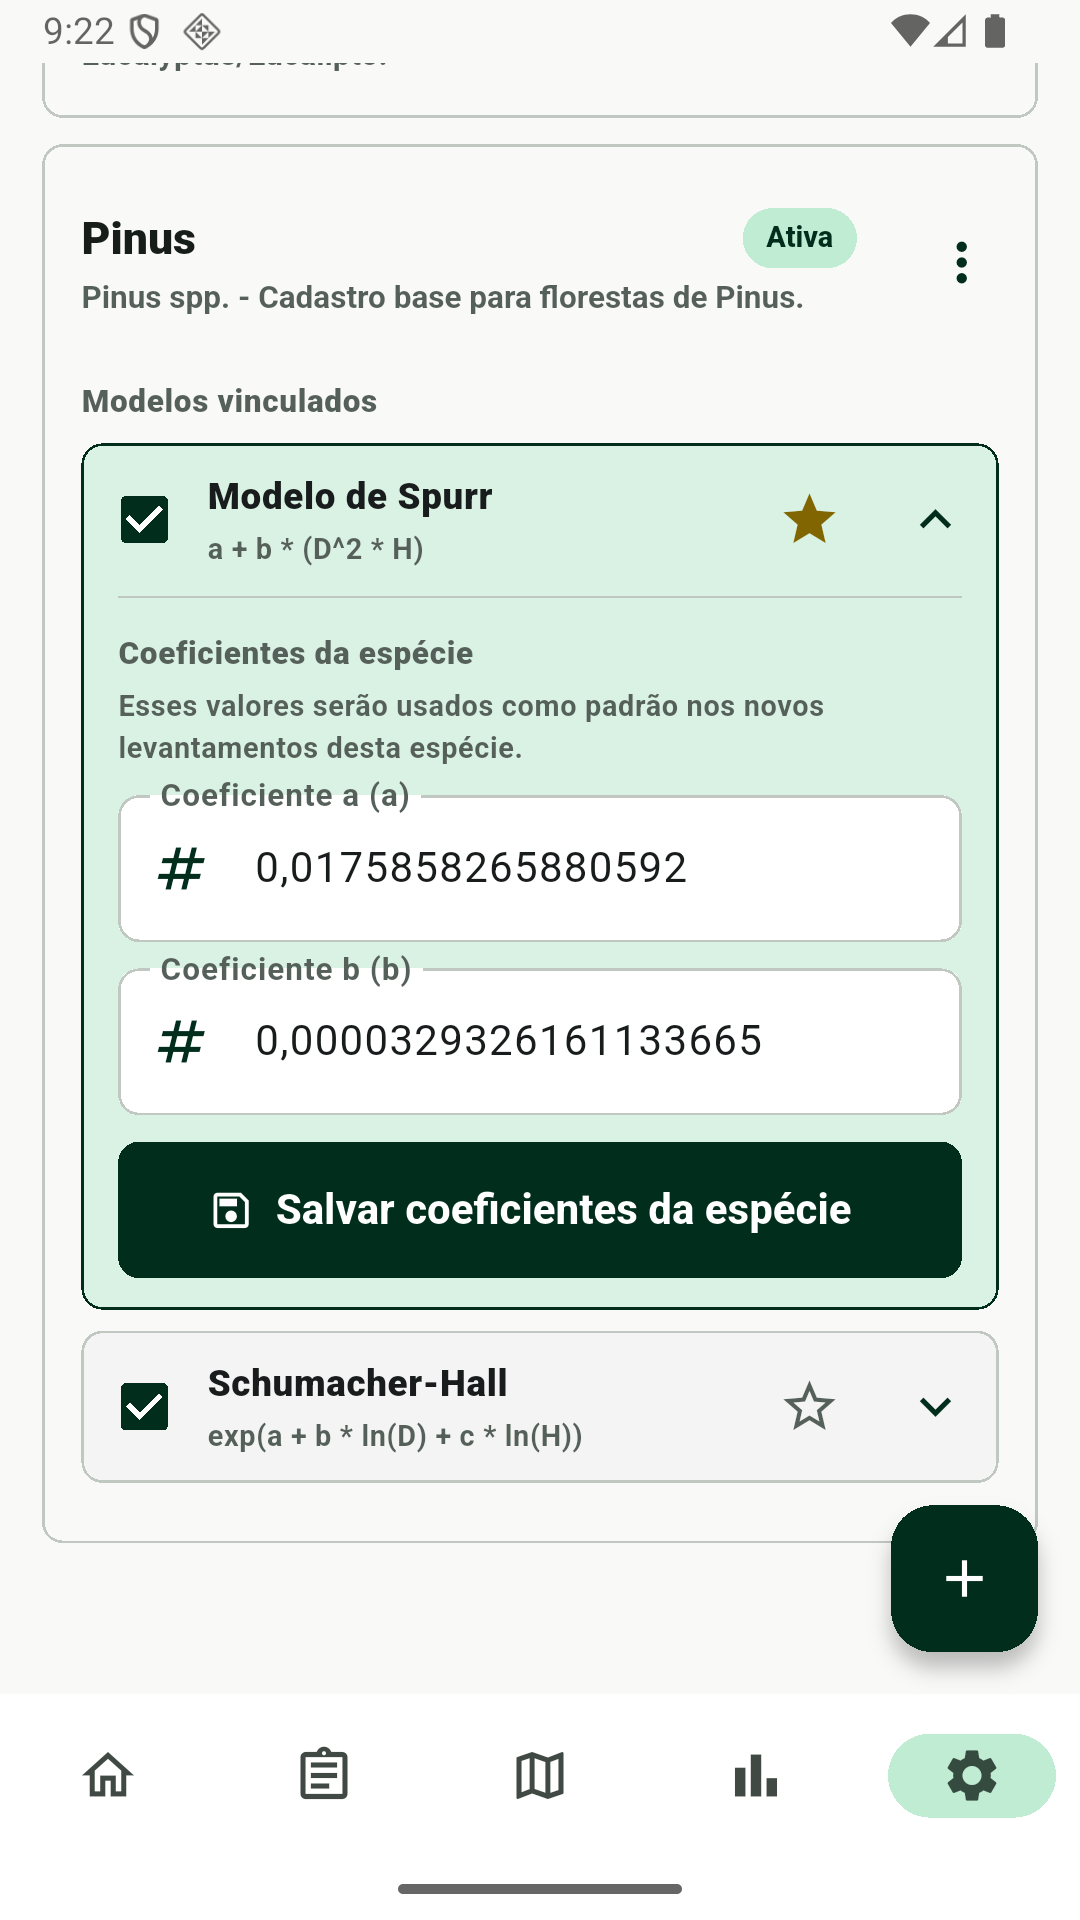
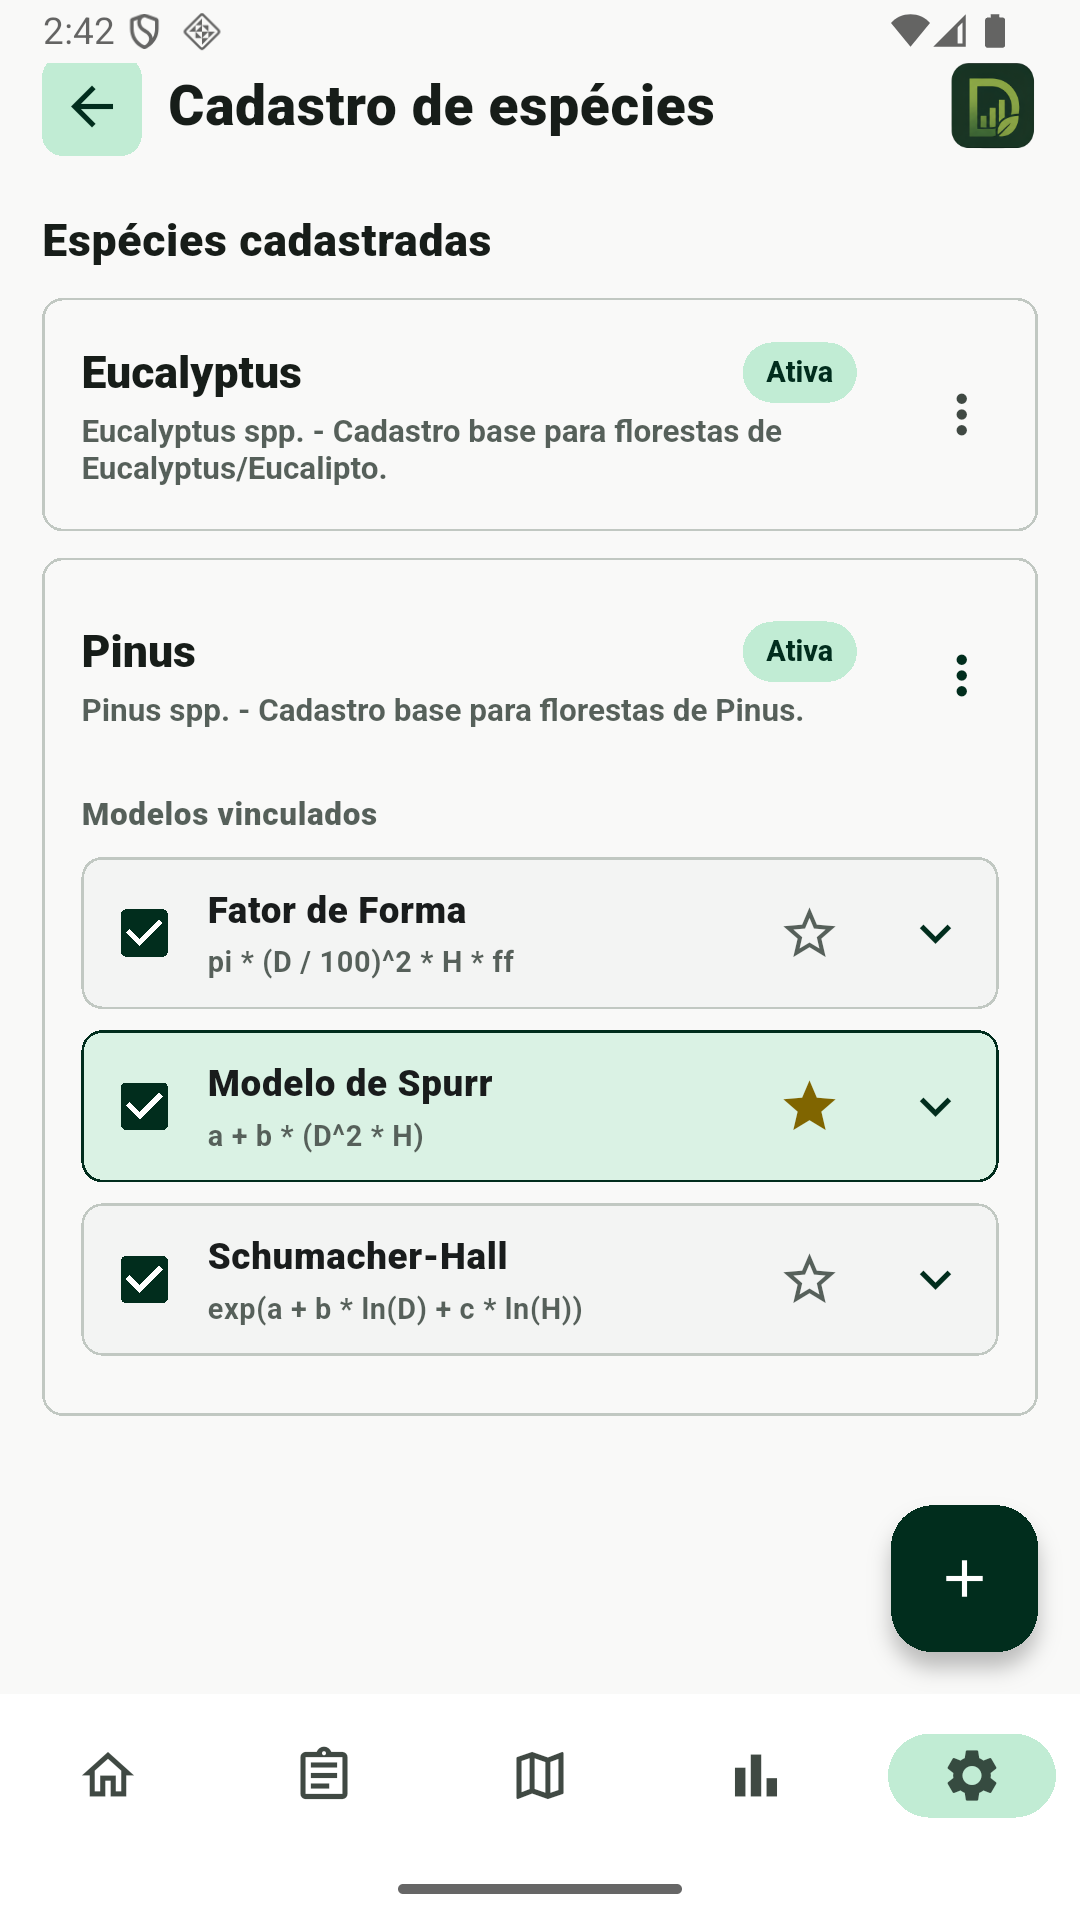
captura

diff --git a/tcc_codex_context/manual/INDICE_CAPTURAS.md b/tcc_codex_context/manual/INDICE_CAPTURAS.md
@@ -12,8 +12,8 @@
 | [06_novo_talhao.png](screenshots/06_novo_talhao.png) | Talhao 01, Pinus, 10 ha, referência de parcela 20 × 20 m. |
 | [07_talhoes.png](screenshots/07_talhoes.png) | Menu Editar/Excluir do talhão no detalhe da propriedade. |
 | [08_especies.png](screenshots/08_especies.png) | Lista de Eucalyptus e Pinus. |
-| [08b_modelos_especie.png](screenshots/08b_modelos_especie.png) | Pinus expandido, vínculos, modelo padrão e coeficientes de Spurr. |
-| [09_modelos_matematicos.png](screenshots/09_modelos_matematicos.png) | Catálogo legado preservado: Spurr e Schumacher-Hall. |
+| [08b_modelos_especie.png](screenshots/08b_modelos_especie.png) | Pinus expandido no schema 1: três modelos vinculados, com Spurr como padrão. |
+| [09_modelos_matematicos.png](screenshots/09_modelos_matematicos.png) | Catálogo atual do schema 1: Fator de Forma, Spurr e Schumacher-Hall. |
 | [10_levantamentos.png](screenshots/10_levantamentos.png) | Levantamento ainda em andamento, com seis árvores e duas parcelas coletadas. |
 | [11_novo_levantamento.png](screenshots/11_novo_levantamento.png) | Seleção de propriedade/talhão, antes do primeiro levantamento. |
 | [12_configuracao_modelo.png](screenshots/12_configuracao_modelo.png) | Painel de escolha do modelo e coeficientes antes de iniciar. |
@@ -45,7 +45,7 @@
 
 ## Versão do material
 
-As capturas foram preservadas da sessão anterior à restauração do schema 1. O catálogo mostrado nas imagens 08/09/12 possui dois modelos; a instalação nova também inclui Fator de Forma. Ver o relatório de verificação para a origem dos dados e a validação atual.
+As imagens 08b e 09 foram recapturadas no schema 1 e mostram os três modelos do catálogo atual. As demais capturas permanecem da demonstração anterior; a imagem 12 registra a seleção histórica de Spurr, com somente dois modelos naquele catálogo. Ver o relatório de verificação para a origem dos dados.
 
 ## Evidência separada
 

diff --git a/tcc_codex_context/manual/FLUXO_MANUAL.md b/tcc_codex_context/manual/FLUXO_MANUAL.md
@@ -308,3 +308,7 @@ A lista de talhões está incorporada ao detalhe da propriedade e ao detalhe do 
 Abertura → Início → conferir espécies/modelos em Ajustes → Propriedade → Talhão → Novo levantamento → ajustar modelo/coeficientes → iniciar e vincular talhão → Parcelas → Coleta de árvores (+ GPS opcional) → conferir/editar registros → encerrar parcelas → encerrar levantamento → consultar Resultados com filtros → Exportar → consultar Histórico.
 
 Alternativa: Propriedade → Talhão → planejar parcelas → iniciar levantamento e aproveitar planejamento. O atalho Novo Levantamento do Início também permite selecionar propriedade/talhão.
+
+## Atualização das imagens do catálogo
+
+As capturas `09_modelos_matematicos.png` e `08b_modelos_especie.png` foram substituídas por novas imagens reais do schema 1, em 1080 × 1920. Agora mostram Fator de Forma, Modelo de Spurr e Schumacher-Hall. No cadastro de Pinus, os três aparecem vinculados e Spurr permanece como padrão. Nenhuma configuração ou código foi alterado para a captura. As observações anteriores sobre catálogo incompleto aplicam-se às imagens históricas ainda não substituídas, especialmente a imagem 12 da seleção no levantamento.
